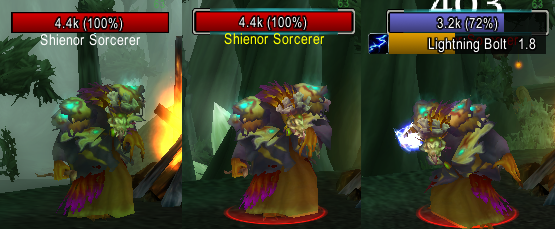
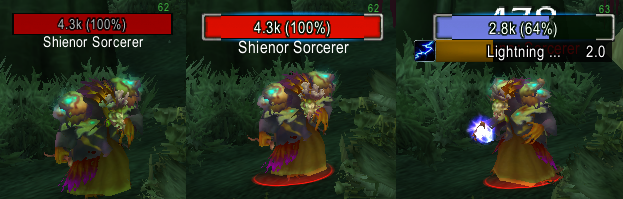
Border rework, remove interface settings, update readme

diff --git a/README.md b/README.md
@@ -1,37 +1,53 @@
-# NotPlater addon for TBC 2.4.3
+# NotPlater Addon for TBC 2.4.3
 
 ![NotPlater addon demo (non targeted vs. targeted enemy)](/images/demo.png)
 
 Feature rich nameplate addon for TBC 2.4.3 that was designed based on the modern Plater addon. The main purpose is to provide extensive threat information on nameplates with fully configurable options. The core features include:
 - Threat display with dps / healer and tank mode 
-    - Nameplate color coding in three adjustable different colors
-    - Threat differential font 
-    - Number on threat font
-- Fully customizable look, every bar / text is movable / scalable
+    - Nameplate Color Coding (including an option for class colors)
+    - Threat Status Bar/Text
+    - Threat Differential Text 
+    - Threat Number Text
+- Fully customizable look, every bar (including borders) / text is movable / scalable
 - Textual health font for enemy healthbar in different configurations (percent, min / max, both)
-- Textual casting font for enemy castbar in different configurations (spellname, time remaining, time taken, both)\
+- Textual casting fonts for enemy castbar in different configurations (spellname, time remaining, time taken, both)\
+- Highly adjustable Target Options
+    - Border Indicator and Highlight like in Plater
+    - Non-Target Shading
+    - Target Overlay
+    - Mouseover Highlight
+    - Target-Target Text
+- Stacking Options
+- Simulator Frame
+- Profiles
 
-If you find any bugs feel free to message me (Hardc0re#6291 on discord) or send me a pull request.
+If you find any bugs feel free to message me (Hardc0re#6291 on discord) or report an issue.
 
-## Threat display feature description
+## Threat Display Feature Description
 
 ![Threat display features](/images/demo4.png)
 
 The picture above shows all the threat features that are available. They can be independently enabled / disabled. There exist two different modes, namely dps / healer and tank mode. For each mode the colors of the fonts and bars can be set individually.
-- Threat color coding\
+- Threat Color Coding\
   Three different threat colors of the healthbar based on the colors of Plater, but can be changed settings.
-- Threat differential\
+- Threat Status Bar/Text\
+  Shows your % on threat based on the highest person on threat within your group as a status bar and/or text. There are also color options for 100%, above 90% and below 90% for both status bar and text.
+- Threat Differential Text\
   This shows the threat differential between you and second on threat if you are first on threat. If you are not first on threat then it shows the threat differential between the first on threat and you. Colors can be changed for each mode, default colors have the following intend, respective to the meaning of the modes: Green - save zone, Red - danger, Orange - close to danger. The font is fully customizable.
-- Threat number\
-  This shows the number you are on threat. There are three different colors which display, depending on the mode with respective colors: First on threat, upper 20% on threat and lower 80% on threat. The font is fully customizable.
+- Threat Number Text\
+  This shows the number you are on threat. There are three different colors which display, depending on the mode with respective colors: First on threat, above 80% on threat and below 80% on threat. The font is fully customizable.
 
+## NotPlater Simulator Frame
 
-## Settings (/np or /notplater)
+![NotPlater Simulator](/images/notplater_simulator_frame.gif)
+
+This frame simulates a nameplate and is meant to ease the process of configuring, so you don't have to look for proper test scenarios. It also simulates a threat scenario of a group of 10 people internally, which is shown when you hover over the simulated frame. The simulator is moveable on the outer region and you can target/untarget the simulated frame by clicking on it.
+
+## Settings (/np or /notplater or Click on the Minimap Button)
 
 ![Settings](/images/demo_settings.png)
 
-The image above shows the settings that are available for the addon. You can either access them over the Interface -> AddOns option or with the slash commands /np or /notplater. All features that have been described are adjustable in the settings dialog.
-
+The image above shows the settings that are available for the addon. You can either access them over the minimap button or with the slash commands /np or /notplater. All features that have been described are adjustable in the settings dialog.
 
 ## Addon folder structure
 
@@ -39,8 +55,6 @@ Rename the downloaded folder to "NotPlater" (remove "-versionnumber" from the fo
 ..\Interface\AddOns\
 ..\Interface\AddOns\NotPlater
 
-
 ## Acknowledgements
 
-- As already mentioned, the design is based on the Plater addon that some might know from retail WoW. 
-- The addon itself is based on the Nameplates modifier addon for TBC 2.4.3 (not quite sure who actually made it).
+- As already mentioned, the design is inspired by the Plater addon.
